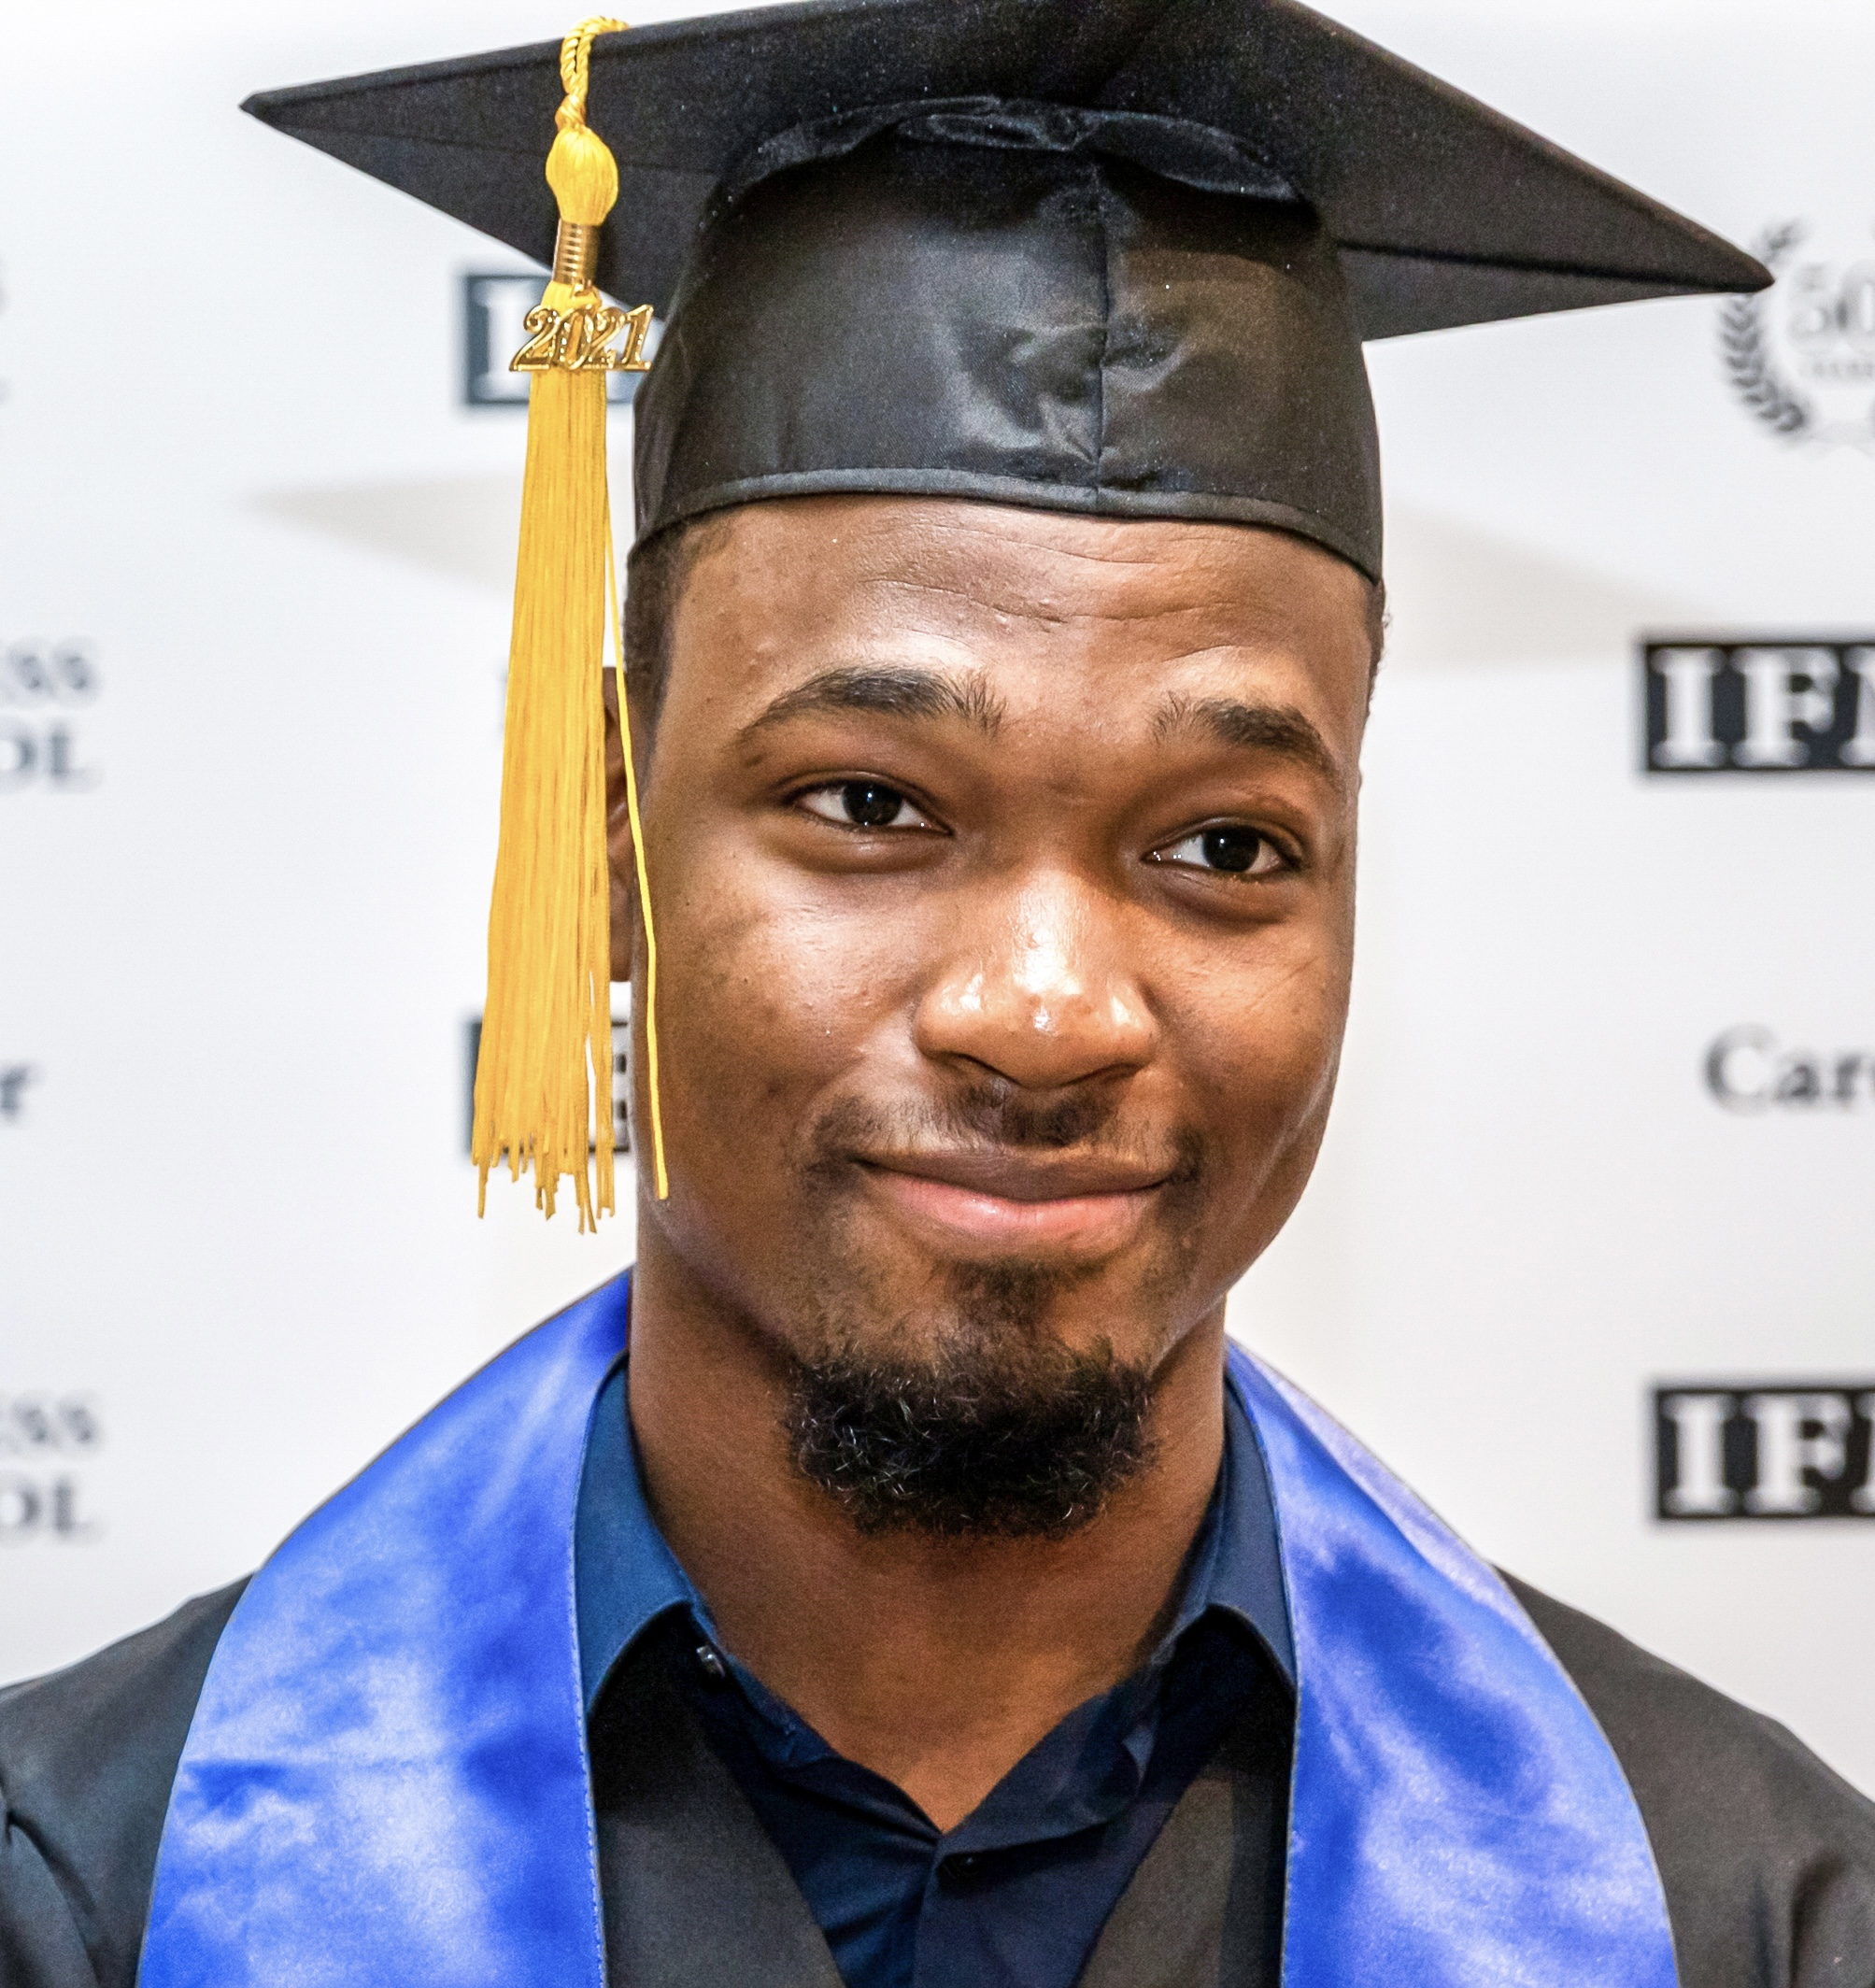
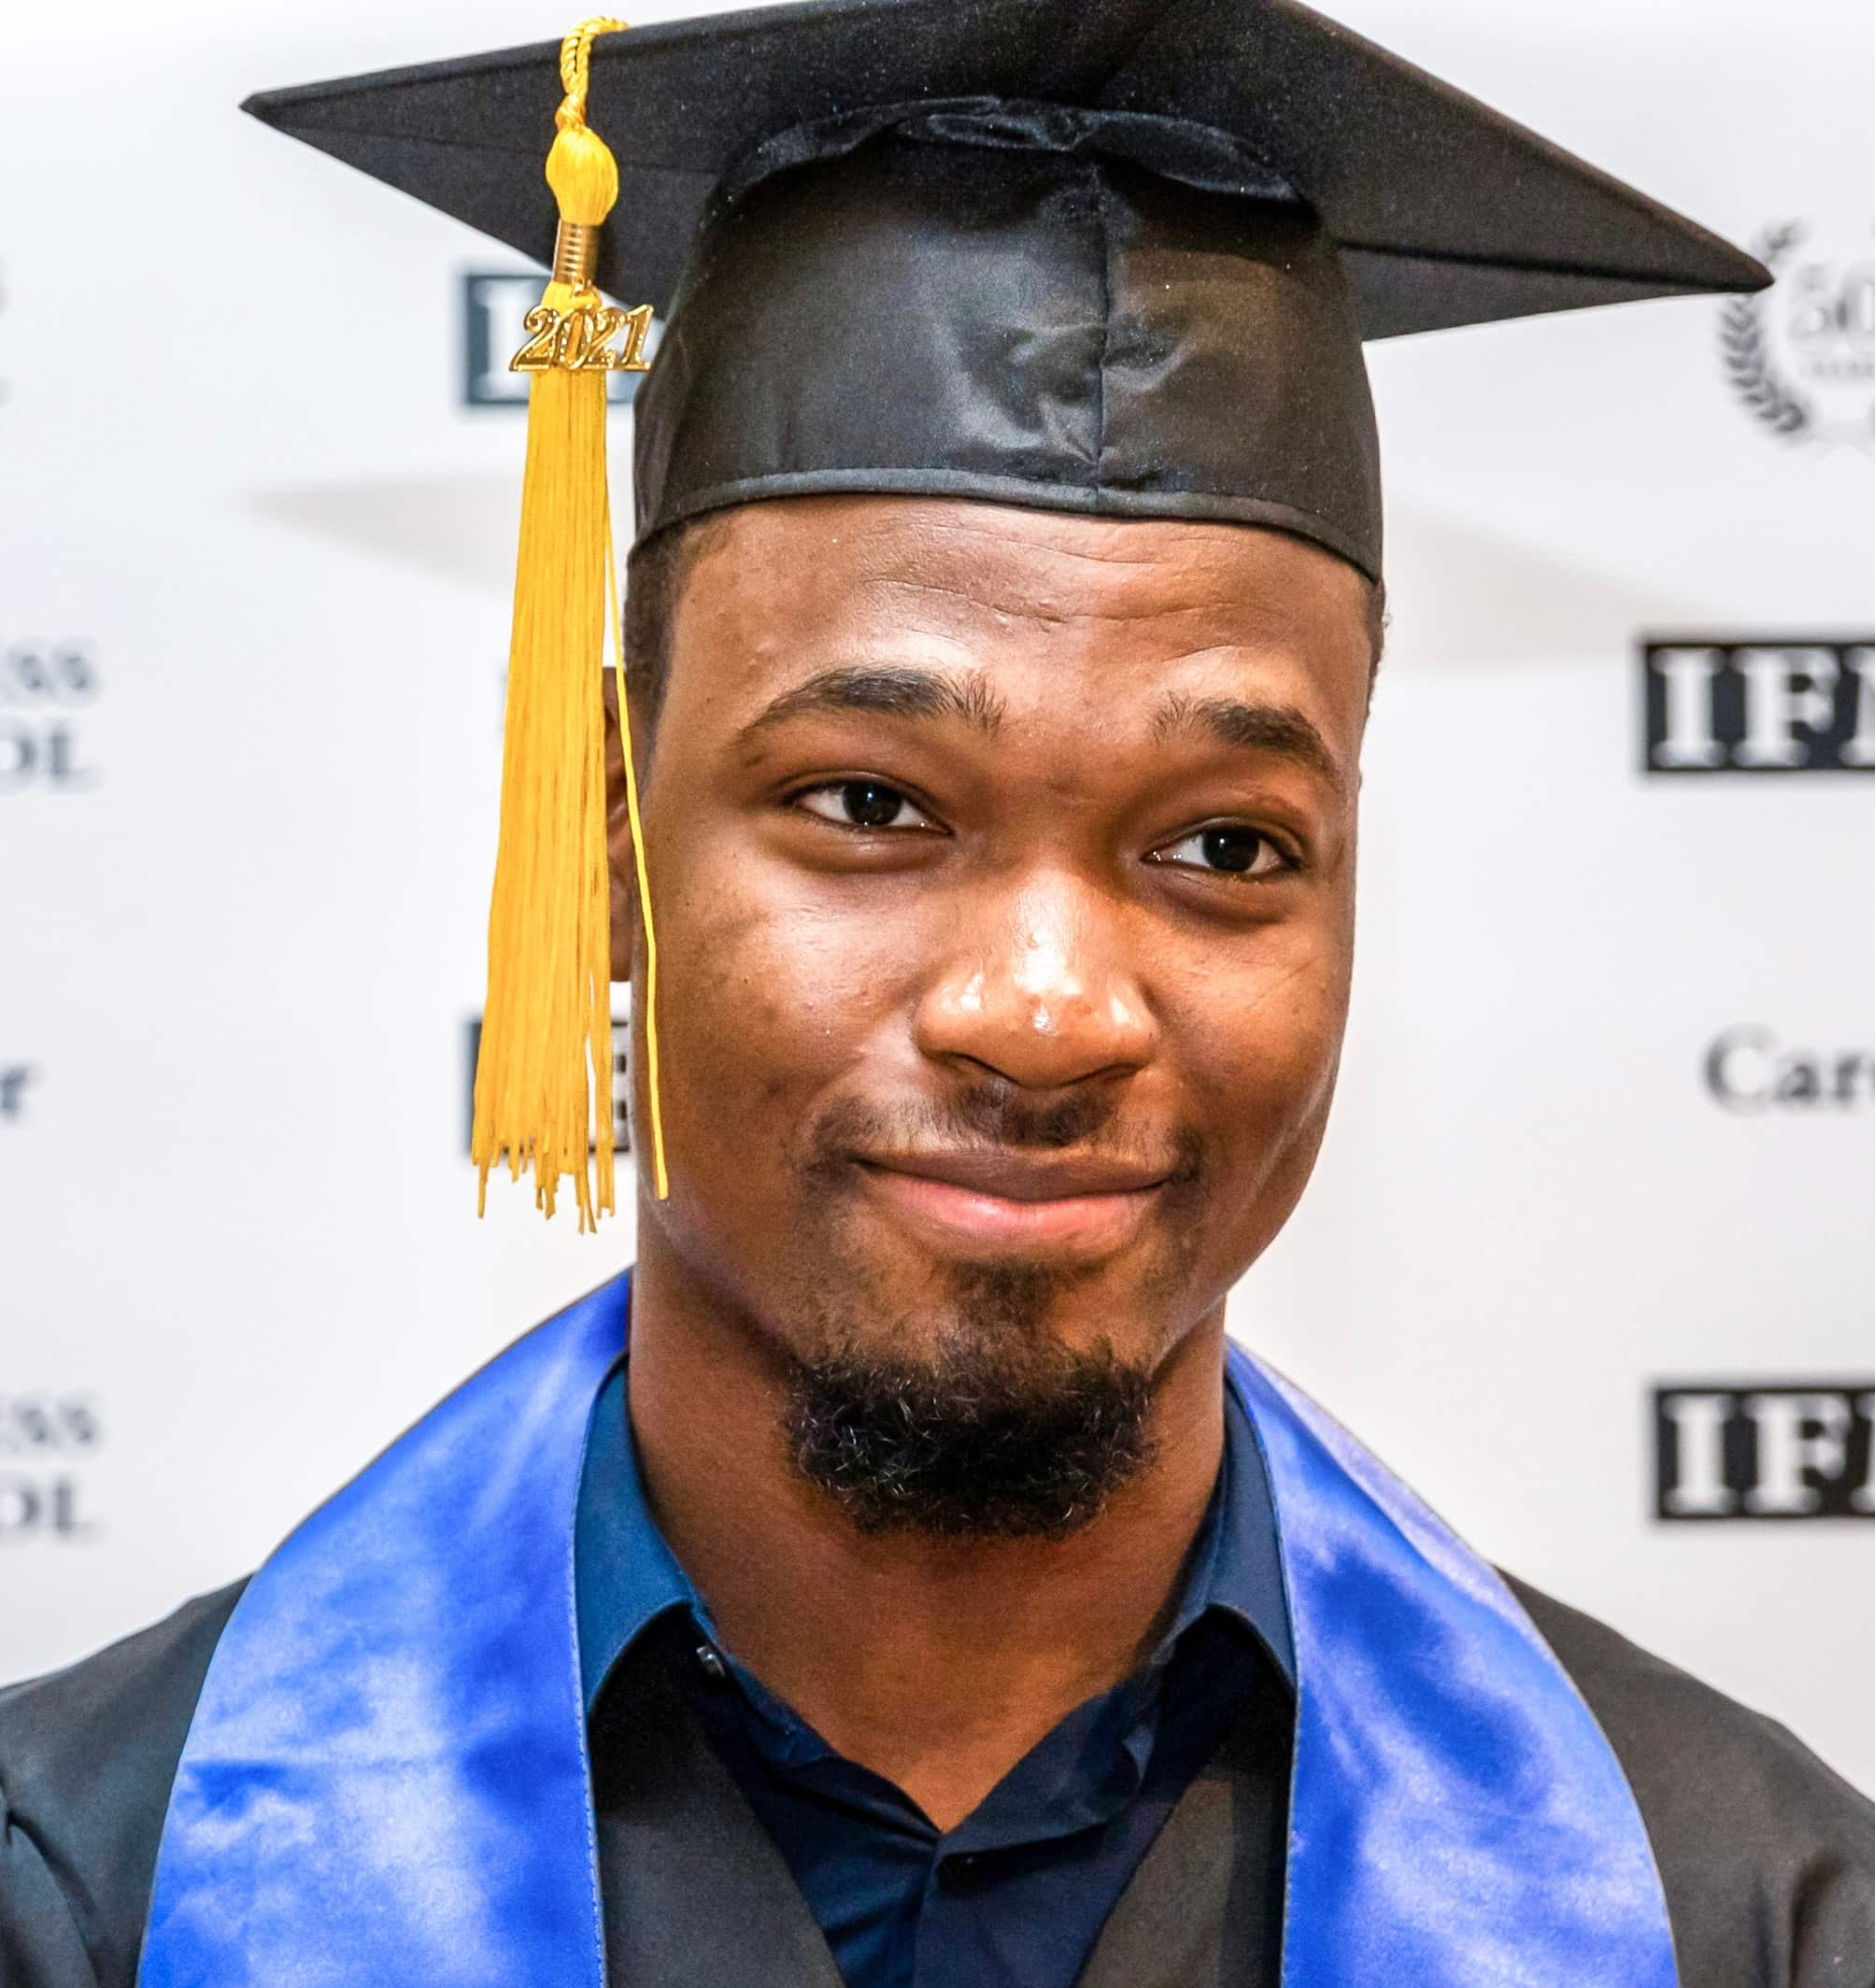
feat: comments added

Changed region(s): [[0.2471, 0.031, 0.3398, 0.5893], [0.3089, 0.6823, 0.3707, 0.8374], [0.0618, 0.9615, 0.1236, 1.0]]

diff --git a/apps/web/src/components/Footer.jsx b/apps/web/src/components/Footer.jsx
@@ -1,3 +1,4 @@
+/** Site footer: brand, in-page quick links, and social profiles. */
 import React from 'react';
 import { Link, useLocation, useNavigate } from 'react-router-dom';
 import { Github, Linkedin, Mail } from 'lucide-react';
@@ -37,6 +38,7 @@ const Footer = () => {
         name: 'Contact',
         href: '#contact'
     }];
+    // Same hash navigation pattern as Header (see scrollToSection there).
     const scrollToSection = (href) => {
         if (location.pathname !== '/') {
             navigate({ pathname: '/', hash: href });
@@ -50,7 +52,7 @@ const Footer = () => {
     };
     return <footer className="bg-card border-t border-border">
         <div className="container-custom py-12">
-            <div className="grid md:grid-cols-3 gap-8 mb-8">
+            <div className="grid md:grid-cols-3 gap-8 mb-8 text-center">
                 {/* Brand */}
                 <div>
                     <Link
@@ -76,7 +78,7 @@ const Footer = () => {
                     <span className="text-sm font-semibold tracking-wide uppercase text-foreground/90 mb-4 block">
                         Quick Links
                     </span>
-                    <div className="flex flex-wrap gap-4">
+                    <div className="flex flex-wrap gap-4 justify-center">
                         {quickLinks.map((link) => (
                             <Link
                                 key={link.name}
@@ -100,7 +102,7 @@ const Footer = () => {
                     <span className="text-sm font-semibold tracking-wide uppercase text-foreground/90 mb-4 block">
                         Connect
                     </span>
-                    <div className="flex gap-3">
+                    <div className="flex gap-3 justify-center">
                         {socialLinks.map(social => {
                             const Icon = social.icon;
                             const isMail = social.href.startsWith('mailto:');
@@ -123,18 +125,10 @@ const Footer = () => {
             </div>
 
             {/* Bottom Bar */}
-            <div className="pt-8 border-t border-border flex flex-col md:flex-row justify-between items-center gap-4">
+            <div className="pt-8 border-t border-border flex flex-col md:flex-row justify-center items-center gap-4 text-center">
                 <p className="text-foreground/60 text-sm">
                     © {currentYear} Seyba Tandia. All rights reserved.
                 </p>
-                <div className="flex gap-6">
-                    <a href="#" className="text-foreground/60 text-sm transition-colors duration-200 hover:text-accent">
-                        Privacy Policy
-                    </a>
-                    <a href="#" className="text-foreground/60 text-sm transition-colors duration-200 hover:text-accent">
-                        Terms of Service
-                    </a>
-                </div>
             </div>
         </div>
     </footer>;

diff --git a/apps/web/src/components/ServicesSection.jsx b/apps/web/src/components/ServicesSection.jsx
@@ -1,3 +1,4 @@
+/** Service offering cards. */
 import React from 'react';
 import { motion } from 'framer-motion';
 import { Server, Network, Database, TestTube2, Workflow, Cog } from 'lucide-react';
@@ -80,7 +81,14 @@ const ServicesSection = () => {
                                     : 'bg-background border-border'
                                     } rounded-xl p-8 border transition-all duration-300 hover:shadow-lg hover:shadow-accent/10 hover:-translate-y-1`}
                             >
-                                <div className={`flex ${service.featured ? 'flex-col md:flex-row md:items-center' : 'flex-col'} gap-6`}>
+                                {/* Centered below md; left-aligned from md up. */}
+                                <div
+                                    className={`flex flex-col items-center text-center gap-6 ${
+                                        service.featured
+                                            ? 'md:flex-row md:items-center md:text-left'
+                                            : 'md:items-start md:text-left'
+                                    }`}
+                                >
                                     <div className={`${service.featured ? 'p-4' : 'p-3'} bg-accent/10 rounded-xl w-fit transition-transform duration-300 group-hover:scale-110`}>
                                         <Icon className="text-accent" size={service.featured ? 32 : 24} />
                                     </div>

diff --git a/apps/web/src/components/Header.jsx b/apps/web/src/components/Header.jsx
@@ -1,3 +1,7 @@
+/**
+ * Fixed nav with scroll-spy highlights and hash-based section jumps on the home page.
+ * From other routes, section links navigate to `/#section` and ScrollToTop handles the jump.
+ */
 import React, { useState, useEffect } from 'react';
 import { Link, useLocation, useNavigate } from 'react-router-dom';
 import { Menu, X } from 'lucide-react';
@@ -11,6 +15,7 @@ const Header = () => {
     const [activeSection, setActiveSection] = useState('');
 
     useEffect(() => {
+        // Section is "active" when this horizontal line (below the fixed header) crosses it.
         const activationLine = 100;
 
         const intersectsActivationLine = (element) => {
@@ -21,6 +26,7 @@ const Header = () => {
         const handleScroll = () => {
             setIsScrolled(window.scrollY > 20);
 
+            // Three adjacent sections share one nav item ("Skills").
             const skillsBlockIds = ['backend-tools', 'skills-languages', 'skills'];
             const inSkillsBlock = skillsBlockIds.some((id) => {
                 const el = document.getElementById(id);
@@ -54,6 +60,7 @@ const Header = () => {
         { name: 'Projects', href: '#projects' },
     ];
 
+    /** Smooth-scroll on home; otherwise route home with hash for ScrollToTop. */
     const scrollToSection = (href) => {
         setIsMobileMenuOpen(false);
         if (location.pathname !== '/') {

diff --git a/apps/web/src/components/ContactForm.jsx b/apps/web/src/components/ContactForm.jsx
@@ -1,9 +1,12 @@
+/**
+ * Contact section: validates input, then opens a mailto draft (no backend).
+ * Recipient: `VITE_CONTACT_EMAIL` in `.env`, or CONTACT_EMAIL_FALLBACK below.
+ */
 import React, { useState } from 'react';
 import { motion } from 'framer-motion';
 import { Send, Mail, User, MessageSquare } from 'lucide-react';
 import { useToast } from '@/hooks/use-toast';
 
-/** Your inbox. Or set `VITE_CONTACT_EMAIL` in `apps/web/.env` (restart dev server). */
 const CONTACT_EMAIL_FALLBACK = '[email redacted]';
 
 const ContactForm = () => {
@@ -72,6 +75,7 @@ const ContactForm = () => {
             return;
         }
 
+        // mailto: opens the visitor's default mail client with a pre-filled draft.
         const subject = encodeURIComponent(formData.subject.trim());
         const body = encodeURIComponent(
             [

diff --git a/apps/web/src/components/HeroSection.jsx b/apps/web/src/components/HeroSection.jsx
@@ -1,13 +1,15 @@
+/** Above-the-fold intro: headline, CTAs, and profile photo with fallback initials. */
 import React, { useState } from 'react';
 import { motion } from 'framer-motion';
 import { ArrowRight, Download } from 'lucide-react';
 
-/** Profile image: `public/profile/Photo_CV.jpg` */
+/** Profile image at `apps/web/public/profile/Photo_CV.jpg`. */
 const PROFILE_PHOTO_SRC = '/profile/Photo_CV.jpg';
 
 const HeroSection = () => {
     const [photoFailed, setPhotoFailed] = useState(false);
-    const scrollToSection = href => {
+
+    const scrollToSection = (href) => {
         const element = document.querySelector(href);
         if (element) {
             element.scrollIntoView({

diff --git a/apps/web/src/data/projectsData.js b/apps/web/src/data/projectsData.js
@@ -1,3 +1,9 @@
+/**
+ * Single source of truth for featured projects and `/projects/:projectId` pages.
+ *
+ * Each entry needs a unique `id` (URL slug). `technologies[].icon` must match a key
+ * in `ProjectDetailPage` iconMap. Images live under `apps/web/public/`.
+ */
 export const projectsData = [
   {
     id: 'shoplane-api',

diff --git a/apps/web/src/pages/HomePage.jsx b/apps/web/src/pages/HomePage.jsx
@@ -1,3 +1,7 @@
+/**
+ * Landing page: stacked sections with hash targets for header/footer navigation.
+ * Section order matches the scroll flow (hero → skills marquees → about → …).
+ */
 import React from 'react';
 import { Helmet } from 'react-helmet';
 import Header from '@/components/Header.jsx';
@@ -19,7 +23,7 @@ const HomePage = () => {
                 <title>Seyba Tandia - Software Engineering Student</title>
                 <meta
                     name="description"
-                    content="Backend developer specializing in Python, Django, PostgreSQL, and scalable API development. Software engineering student at ESIG with expertise in DevOps and cloud infrastructure."
+                    content="Online profile of Seyba Tandia, a Software engineering student at ESIG"
                 />
             </Helmet>
 

diff --git a/apps/web/src/App.jsx b/apps/web/src/App.jsx
@@ -1,3 +1,7 @@
+/**
+ * Root router: single-page home plus per-project detail routes.
+ * ScrollToTop resets scroll (or jumps to a hash) on every navigation.
+ */
 import React from 'react';
 import { Route, Routes, BrowserRouter as Router } from 'react-router-dom';
 import ScrollToTop from './components/ScrollToTop.jsx';

diff --git a/apps/web/src/components/FeaturedProjects.jsx b/apps/web/src/components/FeaturedProjects.jsx
@@ -1,3 +1,7 @@
+/**
+ * Project grid on the home page. Cards link to `/projects/:id` detail routes.
+ * `featured: true` entries span both columns on md+ screens.
+ */
 import React from 'react';
 import { motion } from 'framer-motion';
 import { ExternalLink, Github, ArrowRight } from 'lucide-react';

diff --git a/apps/web/src/components/ScrollToTop.jsx b/apps/web/src/components/ScrollToTop.jsx
@@ -1,3 +1,7 @@
+/**
+ * Runs before paint on route changes so users never see a flash at the wrong scroll position.
+ * Supports deep links like `/#projects` after navigating from a detail page.
+ */
 import { useLocation } from 'react-router-dom';
 import { useLayoutEffect } from 'react';
 

diff --git a/apps/web/src/index.css b/apps/web/src/index.css
@@ -1,3 +1,7 @@
+/**
+ * Global design tokens and shared utilities for the portfolio.
+ * Theme colors use HSL components consumed by Tailwind (`bg-background`, etc.).
+ */
 @import url('https://fonts.googleapis.com/css2?family=DM+Sans:ital,opsz,wght@0,9..40,100..1000;1,9..40,100..1000&display=swap');
 
 @tailwind base;

diff --git a/apps/web/src/pages/ProjectDetailPage.jsx b/apps/web/src/pages/ProjectDetailPage.jsx
@@ -1,3 +1,6 @@
+/**
+ * Project detail view driven by `projectsData` and the `:projectId` URL param.
+ */
 import React, { useEffect } from 'react';
 import { useParams, useNavigate, Link } from 'react-router-dom';
 import { Helmet } from 'react-helmet';
@@ -26,6 +29,7 @@ import { projectsData } from '@/data/projectsData.js';
 import Header from '@/components/Header.jsx';
 import Footer from '@/components/Footer.jsx';
 
+/** Maps `technologies[].icon` strings from projectsData to Lucide components. */
 const iconMap = {
     Layers,
     Database,